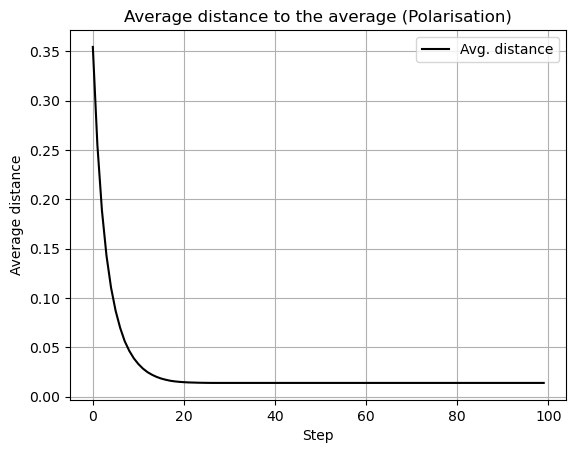
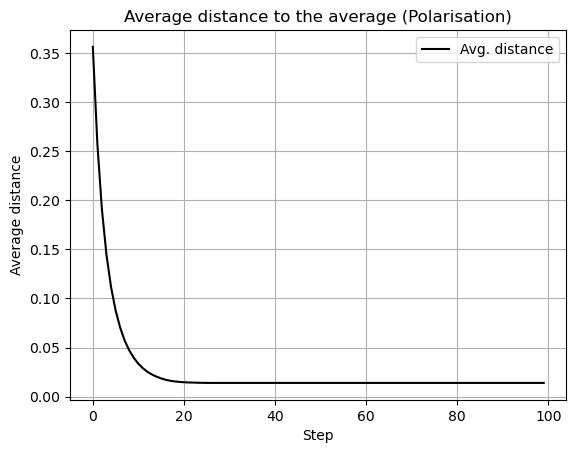
nye resultater

diff --git a/Kode/Matrix_test.py b/Kode/Matrix_test.py
@@ -10,13 +10,14 @@ from Matrix_graph import *
 from Matrix_simulering import *
 from Simulering import save_simulation_results
 
-
+print("start")
 A =  sbm_opinion_graph([500,500])
-
+print("matrix gen")
 B ,_,_= create_matrix_rep(A)
 
-print(B)
+print("Sim")
 
 start_cond, end_state,all_avg_opinions,all_avg_distances = simple_simulation_matrix(A,100)
 
 save_simulation_results_matrix(start_cond, end_state,all_avg_opinions,all_avg_distances,'Ingen_medier_ingen_disinfo_ikke_dynamiske_kanter','png','resultater/simulering_matrix')
+print("done")